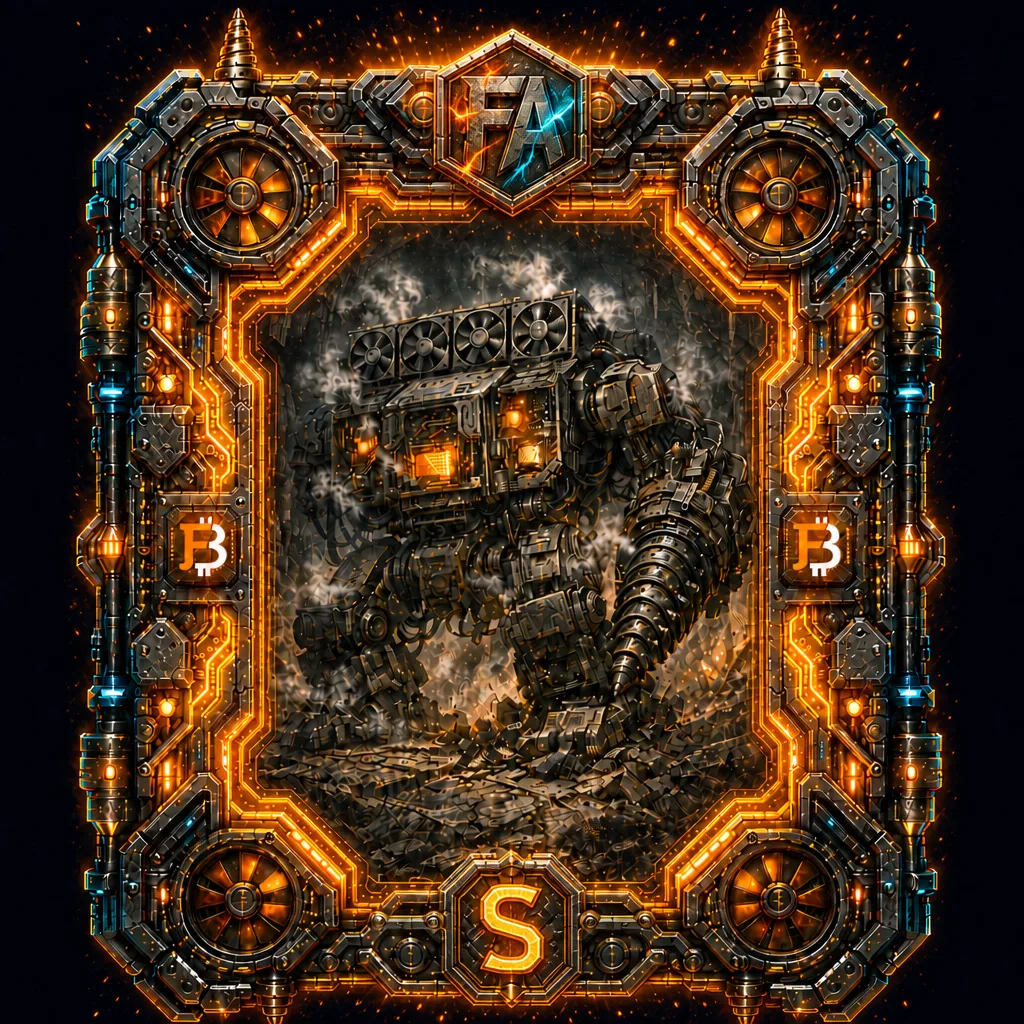
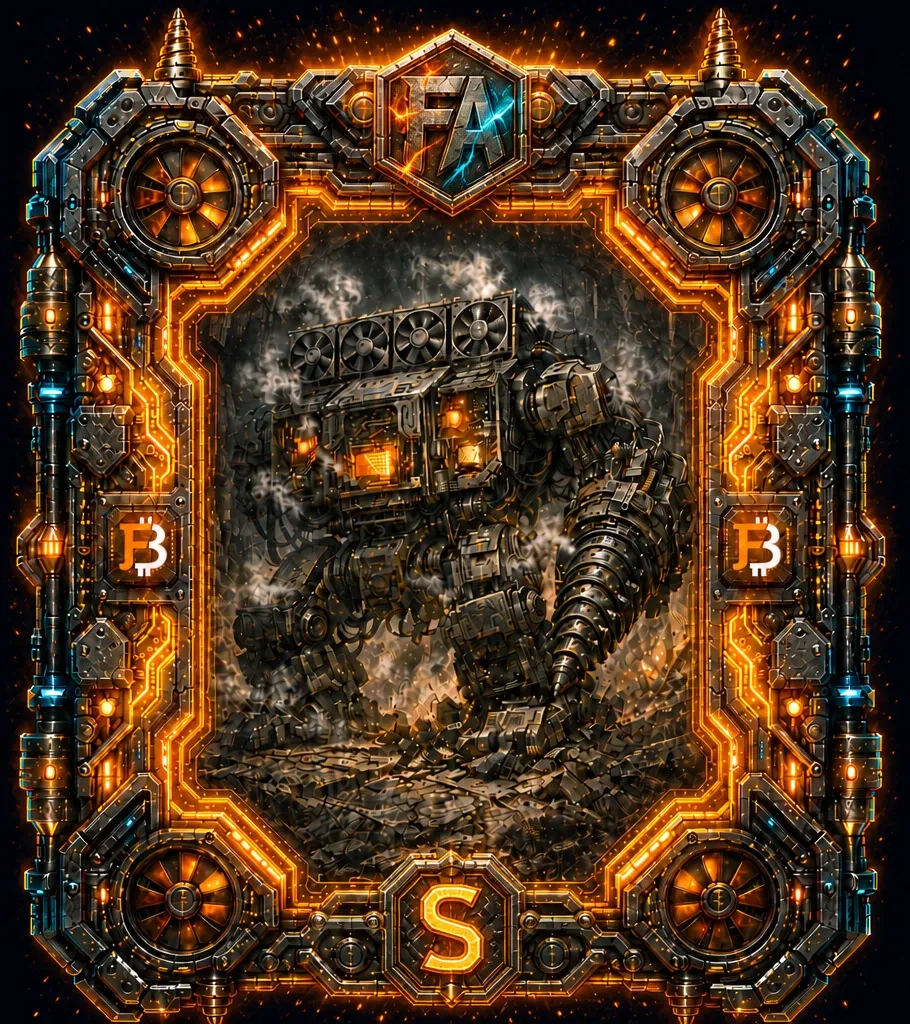
feat(art): cadres de rang partout + marges noires rognées + stats en tuiles (v87)
- 24 visuels de cartes rognés (marges noires du canevas carré supprimées,
  boîte englobante + 6px) ; conteneur .card .art passe en 4:5 pour épouser
  le format portrait des cadres
- Fosse, Campagne, Arène (aperçus + rejeu) et Tour utilisent artFor()
  (visuel de rang C/B/A/S) au lieu de l'art de base sans cadre, avec repli
  onError vers ART[image_key] — corrige « rang invisible en combat »
- rank transmis dans beastMeta (Fosse) et campMeta (Campagne)
- stats des cartes de combat Fosse/Campagne au format tuiles .stat-row
  comme l'écran Équipe (fin des débordements .fighter-stats, CSS retiré)
- cache-bust v86 → v87

diff --git a/index.html b/index.html
@@ -17,8 +17,8 @@
   <meta http-equiv="Content-Security-Policy" content="default-src 'self'; script-src 'self' 'unsafe-inline' 'unsafe-eval' https://unpkg.com; style-src 'self' 'unsafe-inline' https://fonts.googleapis.com; img-src 'self' data: blob: https://totems.fractalarena.com https://pub-0b140013c6564ee080397bcdb722b776.r2.dev; font-src 'self' data: https://fonts.gstatic.com; media-src 'self'; connect-src 'self' https://fractal-arena-server-production.up.railway.app blob: data:; object-src 'none'; base-uri 'self'; frame-ancestors 'none'" />
   <title>Fractal Arena</title>
   <link rel="icon" type="image/png" href="assets/favicon.png?v=1" />
-  <link rel="stylesheet" href="styles.css?v=86" />
-  <link rel="stylesheet" href="mobile.css?v=86" />
+  <link rel="stylesheet" href="styles.css?v=87" />
+  <link rel="stylesheet" href="mobile.css?v=87" />
   <!-- Three.js AUTO-HÉBERGÉ (0.160.0) : cœur + clôture transitive des addons vendorisés sous
        vendor/three-0.160.0/. Élimine la dépendance CDN tierce non protégeable par SRI (les
        importmaps ne supportent pas l'intégrité). Le dossier versionné sert de cache-bust. -->
@@ -108,7 +108,7 @@
       }
     })();
   </script>
-  <script src="assets/boot-anim.js?v=86" async></script>
+  <script src="assets/boot-anim.js?v=87" async></script>
 
   <script src="https://unpkg.com/react@18.3.1/umd/react.development.js" integrity="sha384-hD6/rw4ppMLGNu3tX5cjIb+uRZ7UkRJ6BPkLpg4hAu/6onKUg4lLsHAs9EBPT82L" crossorigin="anonymous"></script>
   <script src="https://unpkg.com/react-dom@18.3.1/umd/react-dom.development.js" integrity="sha384-u6aeetuaXnQ38mYT8rp6sbXaQe3NL9t+IBXmnYxwkUI2Hw4bsp2Wvmx4yRQF1uAm" crossorigin="anonymous"></script>
@@ -116,46 +116,46 @@
 
   <!-- plain JS data/logic -->
   <!-- Cache-busting : incrémenter ?v=X à chaque déploiement pour forcer le rechargement -->
-  <script src="data.js?v=86"></script>
-  <script src="i18n.js?v=86"></script>
+  <script src="data.js?v=87"></script>
+  <script src="i18n.js?v=87"></script>
   <!-- engine.js supprimé : moteur de combat client mort (FA_ENGINE jamais appelé), divergent
        du serveur qui fait autorité. -->
-  <script src="cosmetic.js?v=86"></script>
-  <script src="sfx.js?v=86"></script>
-  <script src="loop.js?v=86"></script>
-  <script src="arene-ui.js?v=86"></script>
-  <script src="market-ui.js?v=86"></script>
-  <script src="forge-ui.js?v=86"></script>
-  <script src="talents-data.js?v=86"></script>
-  <script src="talents-ui.js?v=86"></script>
-  <script src="tour-ui.js?v=86"></script>
-  <script src="totem-ui.js?v=86"></script>
-  <script src="relic-assets.js?v=86"></script>
-  <script type="module" src="totem-cine.js?v=86"></script>
-  <script type="module" src="relic-viewer-boot.js?v=86"></script>
-  <script type="module" src="relic-models.js?v=86"></script>
-  <script type="module" src="relic-icons.js?v=86"></script>
+  <script src="cosmetic.js?v=87"></script>
+  <script src="sfx.js?v=87"></script>
+  <script src="loop.js?v=87"></script>
+  <script src="arene-ui.js?v=87"></script>
+  <script src="market-ui.js?v=87"></script>
+  <script src="forge-ui.js?v=87"></script>
+  <script src="talents-data.js?v=87"></script>
+  <script src="talents-ui.js?v=87"></script>
+  <script src="tour-ui.js?v=87"></script>
+  <script src="totem-ui.js?v=87"></script>
+  <script src="relic-assets.js?v=87"></script>
+  <script type="module" src="totem-cine.js?v=87"></script>
+  <script type="module" src="relic-viewer-boot.js?v=87"></script>
+  <script type="module" src="relic-models.js?v=87"></script>
+  <script type="module" src="relic-icons.js?v=87"></script>
 
   <!-- React (Babel) — order matters: components → screens → chat/room → app -->
-  <script type="text/babel" src="components.jsx?v=86"></script>
-  <script type="text/babel" src="cinematique.jsx?v=86"></script>
-  <script type="text/babel" src="fosse.jsx?v=86"></script>
-  <script type="text/babel" src="arene-battle.jsx?v=86"></script>
-  <script type="text/babel" src="arene.jsx?v=86"></script>
-  <script type="text/babel" src="market.jsx?v=86"></script>
-  <script type="text/babel" src="screens.jsx?v=86"></script>
-  <script type="text/babel" src="chat.jsx?v=86"></script>
-  <script type="text/babel" src="roomchat.jsx?v=86"></script>
-  <script type="text/babel" src="leaderboard.jsx?v=86"></script>
-  <script type="text/babel" src="quests.jsx?v=86"></script>
-  <script type="text/babel" src="login.jsx?v=86"></script>
-  <script type="text/babel" src="tutorial.jsx?v=86"></script>
-  <script type="text/babel" src="campaign.jsx?v=86"></script>
-  <script type="text/babel" src="tour.jsx?v=86"></script>
-  <script type="text/babel" src="relic-viewer.jsx?v=86"></script>
-  <script type="text/babel" src="buyback.jsx?v=86"></script>
-  <script type="text/babel" src="link.jsx?v=86"></script>
-  <script type="text/babel" src="app.jsx?v=86"></script>
+  <script type="text/babel" src="components.jsx?v=87"></script>
+  <script type="text/babel" src="cinematique.jsx?v=87"></script>
+  <script type="text/babel" src="fosse.jsx?v=87"></script>
+  <script type="text/babel" src="arene-battle.jsx?v=87"></script>
+  <script type="text/babel" src="arene.jsx?v=87"></script>
+  <script type="text/babel" src="market.jsx?v=87"></script>
+  <script type="text/babel" src="screens.jsx?v=87"></script>
+  <script type="text/babel" src="chat.jsx?v=87"></script>
+  <script type="text/babel" src="roomchat.jsx?v=87"></script>
+  <script type="text/babel" src="leaderboard.jsx?v=87"></script>
+  <script type="text/babel" src="quests.jsx?v=87"></script>
+  <script type="text/babel" src="login.jsx?v=87"></script>
+  <script type="text/babel" src="tutorial.jsx?v=87"></script>
+  <script type="text/babel" src="campaign.jsx?v=87"></script>
+  <script type="text/babel" src="tour.jsx?v=87"></script>
+  <script type="text/babel" src="relic-viewer.jsx?v=87"></script>
+  <script type="text/babel" src="buyback.jsx?v=87"></script>
+  <script type="text/babel" src="link.jsx?v=87"></script>
+  <script type="text/babel" src="app.jsx?v=87"></script>
 
   <script>
     // Retire le splash quand React a monté ET après une durée mini (garantit qu'on voie

diff --git a/fosse.jsx b/fosse.jsx
@@ -54,7 +54,8 @@ function CombatCard({ meta, live, side, cref, oppMeta, scale = 1 }) {
   return (
     <div className={cx("card", dead && "dead")} ref={cref} style={{ "--rc": rc }}>
       <div className="art">
-        <img src={D.ART[meta.image_key]} alt={meta.name} draggable="false" />
+        <img src={D.artFor(meta)} alt={meta.name} draggable="false"
+          onError={(e) => { const fb = D.ART[meta.image_key]; if (fb && !e.currentTarget.dataset.fb) { e.currentTarget.dataset.fb = "1"; e.currentTarget.src = fb; } }} />
         <div className="rar-tag">{rarityLabel(meta.rarity)}</div>
         <div className="lvl-tag">LV {meta.level}</div>
       </div>
@@ -79,11 +80,13 @@ function CombatCard({ meta, live, side, cref, oppMeta, scale = 1 }) {
           </div>
           <Bar frac={frac} kind="hp" />
         </div>
-        <div className="fighter-stats">
-          <span>ATK {D.fmtStat(Math.round(meta.atk * scale))}</span>
-          <span>DEF {D.fmtStat(Math.round(meta.def * scale))}</span>
-          <span>SPD {D.fmtStat(Math.round(meta.spd * scale))}</span>
-          <span>MAG {D.fmtStat(Math.round(meta.mag * scale))}</span>
+        <div className="stat-row">
+          {[["ATK", meta.atk], ["DEF", meta.def], ["SPD", meta.spd], ["MAG", meta.mag]].map(([k, v]) => (
+            <div className="stat" key={k}>
+              <div className="k">{k}</div>
+              <div className="v" title={String(Math.round(v * scale))}>{D.fmtStat(Math.round(v * scale))}</div>
+            </div>
+          ))}
         </div>
       </div>
     </div>
@@ -120,7 +123,7 @@ function Fosse() {
   const p2Refs = useRef([]);
 
   function beastMeta(b) {
-    return b ? { name: D.displayName(b), type: b.type, rarity: b.rarity, image_key: b.image_key, preset: b.preset, level: b.level, maxHp: D.eff(b, "hp"), atk: D.eff(b, "atk"), def: D.eff(b, "def"), spd: D.eff(b, "spd"), mag: D.eff(b, "mag") } : null;
+    return b ? { name: D.displayName(b), type: b.type, rarity: b.rarity, image_key: b.image_key, rank: b.rank, preset: b.preset, level: b.level, maxHp: D.eff(b, "hp"), atk: D.eff(b, "atk"), def: D.eff(b, "def"), spd: D.eff(b, "spd"), mag: D.eff(b, "mag") } : null;
   }
 
   // keep idle preview synced with selection

diff --git a/campaign.jsx b/campaign.jsx
@@ -52,7 +52,7 @@ function Stars({ n, max, size }) {
 
 function campMeta(b) {
   return b ? {
-    name: D.displayName(b), rarity: b.rarity, image_key: b.image_key, preset: b.preset,
+    name: D.displayName(b), rarity: b.rarity, image_key: b.image_key, rank: b.rank, preset: b.preset,
     level: b.level, maxHp: D.eff(b, "hp"), atk: D.eff(b, "atk"), def: D.eff(b, "def"),
     spd: D.eff(b, "spd"), mag: D.eff(b, "mag"), boss: !!b.is_boss,
   } : null;
@@ -76,7 +76,8 @@ function CampCombatCard({ meta, live, side, cref }) {
     <div className={cx("card", dead && "dead", meta.boss && "camp-boss-card")} ref={cref}
       style={{ "--rc": meta.boss ? "var(--gold)" : rc, boxShadow: meta.boss ? "0 0 22px rgba(247,147,26,0.5)" : undefined }}>
       <div className="art">
-        <img src={D.ART[meta.image_key]} alt={meta.name} draggable="false"
+        <img src={D.artFor(meta)} alt={meta.name} draggable="false"
+          onError={(e) => { const fb = D.ART[meta.image_key]; if (fb && !e.currentTarget.dataset.fb) { e.currentTarget.dataset.fb = "1"; e.currentTarget.src = fb; } }}
           style={meta.boss ? { transform: "scale(1.08)", filter: "drop-shadow(0 0 10px rgba(247,147,26,0.7))" } : undefined} />
         <div className="rar-tag">{rarityLabel(meta.rarity)}</div>
         <div className="lvl-tag">LV {meta.level}</div>
@@ -94,11 +95,13 @@ function CampCombatCard({ meta, live, side, cref }) {
           </div>
           <Bar frac={frac} kind="hp" />
         </div>
-        <div className="fighter-stats">
-          <span>ATK {D.fmtStat(meta.atk)}</span>
-          <span>DEF {D.fmtStat(meta.def)}</span>
-          <span>SPD {D.fmtStat(meta.spd)}</span>
-          <span>MAG {D.fmtStat(meta.mag)}</span>
+        <div className="stat-row">
+          {[["ATK", meta.atk], ["DEF", meta.def], ["SPD", meta.spd], ["MAG", meta.mag]].map(([k, v]) => (
+            <div className="stat" key={k}>
+              <div className="k">{k}</div>
+              <div className="v" title={String(v)}>{D.fmtStat(v)}</div>
+            </div>
+          ))}
         </div>
       </div>
     </div>

diff --git a/arene.jsx b/arene.jsx
@@ -12,7 +12,8 @@ function TeamPreview({ team }) {
     <div className="flex gap8" style={{ flexWrap: "nowrap" }}>
       {list.map((b, i) => (
         <div key={i} className="oct-sm" style={{ width: 40, height: 40, overflow: "hidden", border: "1px solid var(--line)" }}>
-          {D.ART[b.image_key] ? <img src={D.ART[b.image_key]} alt="" style={{ width: "100%", height: "100%", objectFit: "cover" }} draggable="false" /> : null}
+          {D.ART[b.image_key] ? <img src={D.artFor(b)} alt="" style={{ width: "100%", height: "100%", objectFit: "contain" }} draggable="false"
+            onError={(e) => { const fb = D.ART[b.image_key]; if (fb && !e.currentTarget.dataset.fb) { e.currentTarget.dataset.fb = "1"; e.currentTarget.src = fb; } }} /> : null}
         </div>
       ))}
     </div>
@@ -209,7 +210,8 @@ function Arene() {
                   {(a.team || []).map((b, j) => (
                     <div key={j} style={{ flex: 1, textAlign: "center", fontSize: 10, color: "var(--text-dim)" }}>
                       <div style={{ width: 36, height: 36, margin: "0 auto", borderRadius: 6, overflow: "hidden", background: "#0b1020" }}>
-                        {D.ART[b.image_key] ? <img src={D.ART[b.image_key]} alt="" style={{ width: "100%", height: "100%", objectFit: "cover" }} /> : null}
+                        {D.ART[b.image_key] ? <img src={D.artFor(b)} alt="" style={{ width: "100%", height: "100%", objectFit: "contain" }}
+                          onError={(e) => { const fb = D.ART[b.image_key]; if (fb && !e.currentTarget.dataset.fb) { e.currentTarget.dataset.fb = "1"; e.currentTarget.src = fb; } }} /> : null}
                       </div>
                       <div style={{ whiteSpace: "nowrap", overflow: "hidden", textOverflow: "ellipsis" }}>{D.displayName(b)}</div>
                       <div>{I18N.t("LINK_TIER")}{b.level} · {D.fmtStat(D.eff(b, "atk"))}/{D.fmtStat(D.eff(b, "def"))}</div>

diff --git a/arene-battle.jsx b/arene-battle.jsx
@@ -17,7 +17,8 @@ function AB_Unit({ beast, live, side, pos }) {
   return (
     <div className={"ab-unit" + (dead ? " ab-dead" : "")} style={{ opacity: dead ? 0.4 : 1, textAlign: "center", flex: 1, minWidth: 0 }}>
       <div style={{ position: "relative", width: 48, height: 48, margin: "0 auto", borderRadius: 8, overflow: "hidden", background: "#0b1020" }}>
-        {beast && D.ART[beast.image_key] ? <img src={D.ART[beast.image_key]} alt="" style={{ width: "100%", height: "100%", objectFit: "cover" }} draggable="false" /> : null}
+        {beast && D.ART[beast.image_key] ? <img src={D.artFor(beast)} alt="" style={{ width: "100%", height: "100%", objectFit: "contain" }} draggable="false"
+          onError={(e) => { const fb = D.ART[beast.image_key]; if (fb && !e.currentTarget.dataset.fb) { e.currentTarget.dataset.fb = "1"; e.currentTarget.src = fb; } }} /> : null}
         {AB_POS_LABEL[pos] && <span className="mono" style={{ position: "absolute", top: 1, left: 1, fontSize: 8, lineHeight: "10px", padding: "0 3px", borderRadius: 4, background: "rgba(0,0,0,0.6)", color: "var(--text-dim)" }}>{AB_POS_LABEL[pos]}</span>}
       </div>
       <div style={{ fontSize: 10, marginTop: 2, color: "var(--text-dim)", whiteSpace: "nowrap", overflow: "hidden", textOverflow: "ellipsis" }}>

diff --git a/tour.jsx b/tour.jsx
@@ -32,7 +32,8 @@ function TourBeastTile({ beast, hpFrac, dead, selIdx, onToggle }) {
         </span>
       )}
       <div style={{ position: "relative", width: 56, height: 56, margin: "0 auto", borderRadius: 8, overflow: "hidden", background: "#0b1020", border: "1px solid " + rc }}>
-        {D.ART[beast.image_key] && <img src={D.ART[beast.image_key]} alt="" draggable="false" style={{ width: "100%", height: "100%", objectFit: "cover", filter: dead ? "grayscale(1)" : "none" }} />}
+        {D.ART[beast.image_key] && <img src={D.artFor(beast)} alt="" draggable="false" style={{ width: "100%", height: "100%", objectFit: "contain", filter: dead ? "grayscale(1)" : "none" }}
+          onError={(e) => { const fb = D.ART[beast.image_key]; if (fb && !e.currentTarget.dataset.fb) { e.currentTarget.dataset.fb = "1"; e.currentTarget.src = fb; } }} />}
         {dead && <span style={{ position: "absolute", inset: 0, display: "grid", placeItems: "center", fontSize: 22 }}>☠</span>}
       </div>
       <div className="mono" style={{ fontSize: 10, marginTop: 4, whiteSpace: "nowrap", overflow: "hidden", textOverflow: "ellipsis", color: "var(--text-dim)" }}>

diff --git a/styles.css b/styles.css
@@ -328,7 +328,7 @@ input { font-family: var(--font-mono); }
   overflow: hidden;
 }
 .card .art {
-  position: relative; width: 100%; aspect-ratio: 1/1; overflow: hidden;
+  position: relative; width: 100%; aspect-ratio: 4/5; overflow: hidden;
   background: #04060d;
 }
 .card .art img { width: 100%; height: 100%; object-fit: contain; transition: transform .35s cubic-bezier(.2,1,.3,1); display: block; }
@@ -672,12 +672,6 @@ input { font-family: var(--font-mono); }
 .room-input textarea:focus { outline: none; border-color: var(--elec); box-shadow: 0 0 0 2px rgba(0,240,255,.15); }
 
 /* Stats complètes sous la barre HP dans l'arène */
-.fighter-stats {
-  display: flex; justify-content: space-between; gap: 6px; margin-top: 8px;
-  font-family: var(--font-mono); font-size: 11px; color: var(--text-dim);
-}
-.fighter-stats span { white-space: nowrap; }
-
 /* ============ Leaderboard ============ */
 .lb-tabs { display: flex; gap: 8px; margin-bottom: 14px; }
 .lb-tab {
